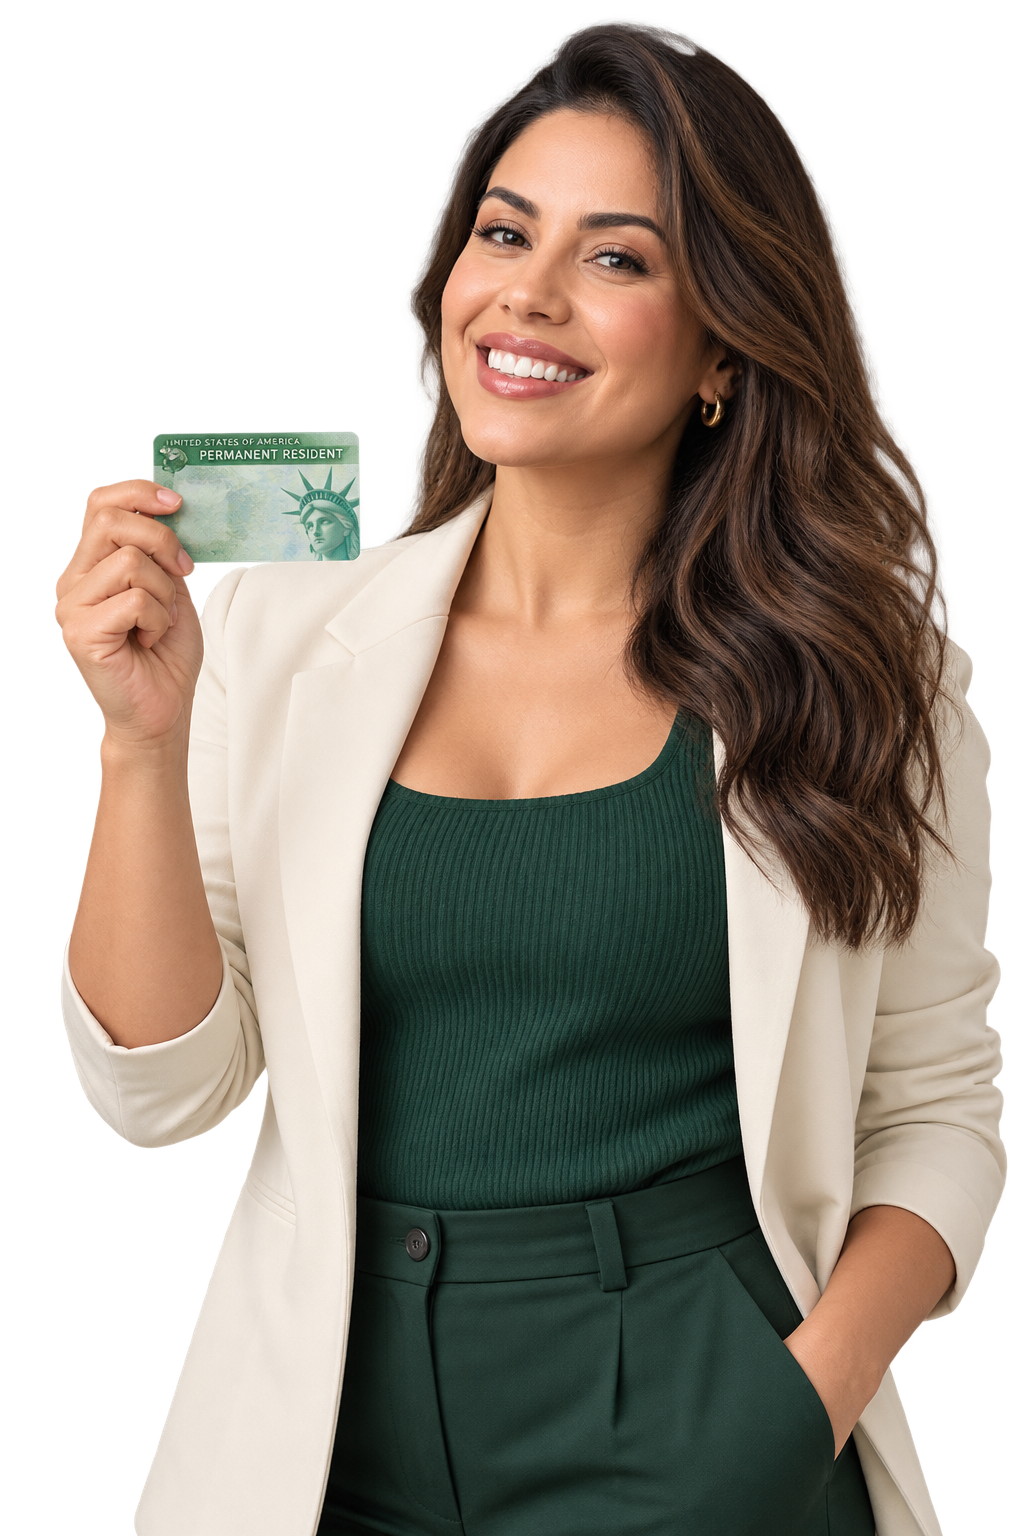
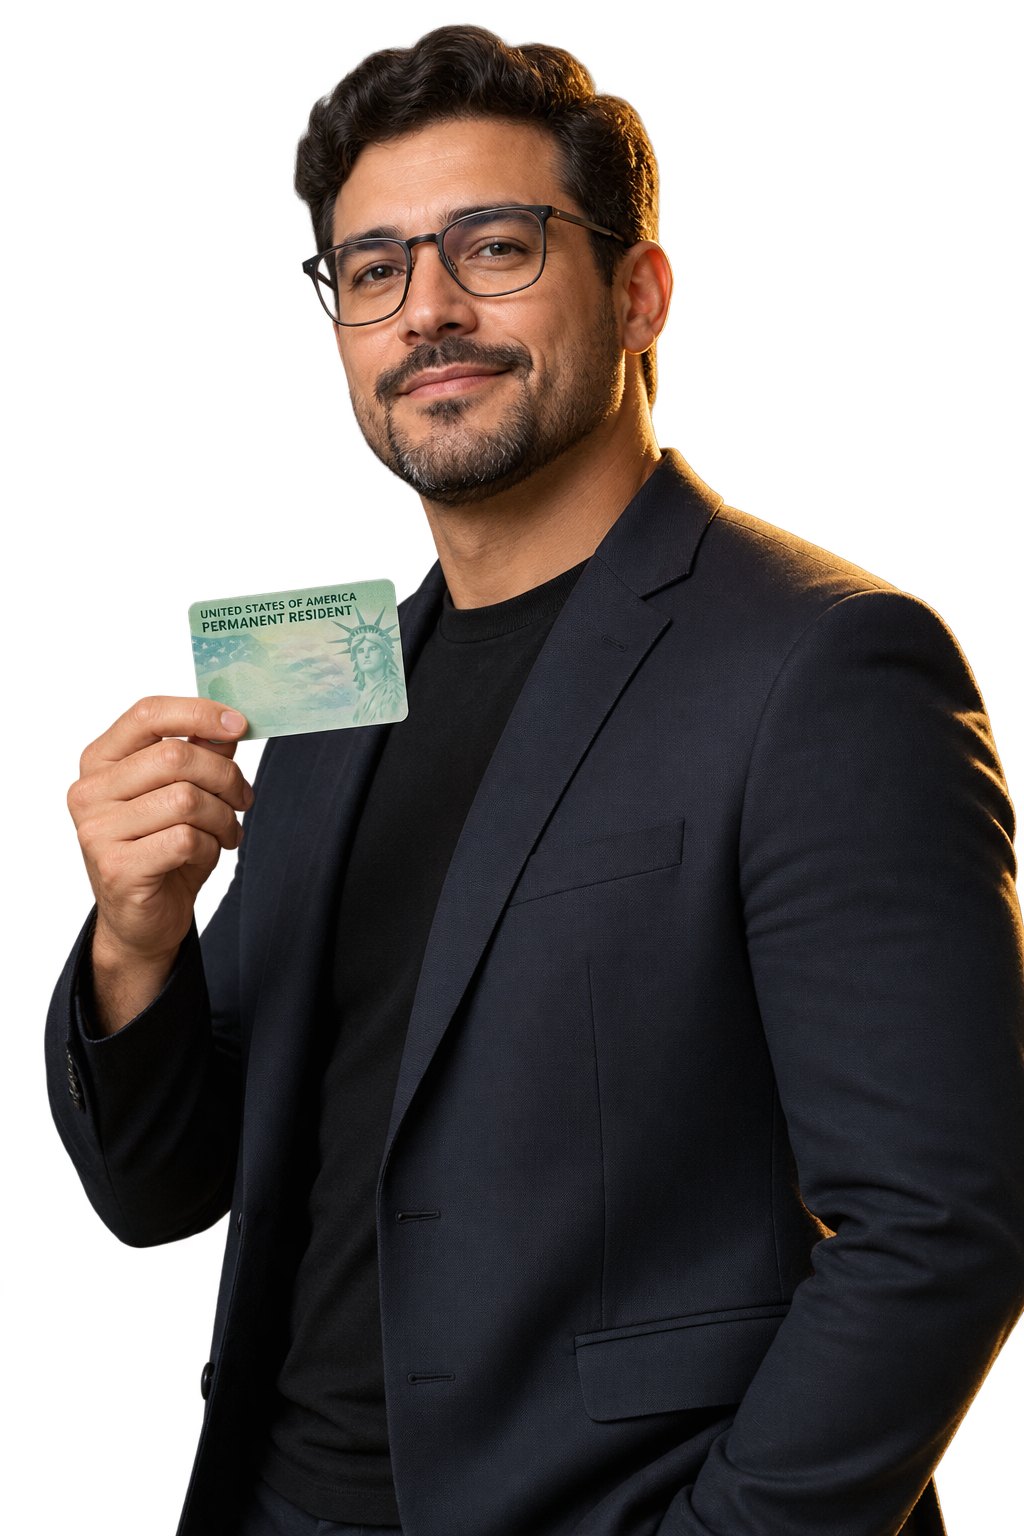
Refine site with premium technology aesthetic

diff --git a/index.html b/index.html
@@ -995,6 +995,281 @@
           width: 100%;
         }
       }
+      /* Palette rebuilt from the Mente Híbrida reference: ink, antique gold and ivory. */
+      :root {
+        --ink: #080604;
+        --teal: #d3ad69;
+        --mint: #17130e;
+        --coral: #e8c873;
+        --cream: #0d0b08;
+        --paper: #f3ead8;
+        --muted: #766f64;
+        --line: #d3ad6945;
+      }
+      body {
+        background: #080604;
+        color: #f3ead8;
+      }
+      header {
+        border-color: #d3ad6929;
+        background: #080604e8;
+      }
+      header.scrolled {
+        background: #080604f2;
+        box-shadow: 0 8px 30px #0008;
+      }
+      .logo {
+        color: #f3ead8;
+      }
+      .logo small {
+        color: #d3ad69;
+      }
+      .mark {
+        background: #080604;
+        color: #e8c873;
+        border-color: #d3ad69;
+      }
+      .links > a:not(.btn) {
+        color: #f3ead8;
+      }
+      .links > a:hover {
+        color: #e8c873;
+      }
+      .btn {
+        border-color: #e8c873;
+        background: #e8c873;
+        color: #080604;
+      }
+      .btn.ghost {
+        border-color: #d3ad69;
+        background: transparent;
+        color: #f3ead8;
+      }
+      .hero {
+        background: radial-gradient(
+          circle at 82% 45%,
+          #5c431f 0,
+          #21170d 17%,
+          #080604 48%
+        );
+        color: #f3ead8;
+      }
+      .hero h1,
+      .hero h1 em {
+        color: #f3ead8;
+      }
+      .hero h1 em {
+        color: #e8c873;
+      }
+      .hero .lead,
+      .hero .note {
+        color: #cfc4b2;
+      }
+      .hero .eyebrow {
+        color: #e8c873;
+      }
+      .hero-visual:before {
+        inset: 50px 6px 0 52px;
+        border: 1px solid #d3ad6980;
+        border-radius: 50% 50% 8px 8px;
+        background: radial-gradient(
+          circle at 52% 38%,
+          #d3ad696e,
+          #1a130b 56%,
+          #080604 77%
+        );
+        box-shadow: 0 0 80px #d3ad6938;
+      }
+      .hero-visual:after {
+        right: 8px;
+        bottom: 34px;
+        width: 62px;
+        height: 62px;
+        background: #e8c873;
+        box-shadow:
+          0 0 0 12px #080604,
+          0 0 0 13px #d3ad69;
+      }
+      .hero-person {
+        height: 570px;
+        filter: drop-shadow(0 22px 30px #000a);
+      }
+      .route-line,
+      .success-pill {
+        display: none;
+      }
+      .trust {
+        background: #0d0b08;
+        border-color: #d3ad6940;
+      }
+      .trust span {
+        color: #f3ead8;
+        border-color: #d3ad6933;
+      }
+      .trust i {
+        color: #e8c873;
+      }
+      #caminhos,
+      #prazos,
+      #duvidas {
+        background: #f3ead8;
+        color: #17130e;
+      }
+      .eyebrow {
+        color: #9b742f;
+      }
+      .intro > div {
+        background: #17130e;
+        color: #f3ead8;
+      }
+      .intro > p {
+        background: #e8c873;
+        color: #17130e;
+      }
+      .card,
+      .card:nth-child(2),
+      .card:nth-child(3) {
+        border: 1px solid #d3ad6952;
+        background: #17130e;
+        color: #f3ead8;
+      }
+      .card p {
+        color: #c7bdad;
+      }
+      .tag {
+        background: #e8c873;
+        color: #17130e;
+      }
+      .card .big {
+        color: #e8c87317;
+      }
+      .process {
+        background: #080604;
+        color: #f3ead8;
+      }
+      .process .eyebrow {
+        color: #e8c873;
+      }
+      .process .lead,
+      .process .step p {
+        color: #bdb4a6;
+      }
+      .process .step {
+        border-color: #d3ad6959;
+      }
+      .process .step:before {
+        background: #080604;
+        color: #e8c873;
+      }
+      .scope {
+        background: #d3ad6945;
+      }
+      .scope > div {
+        background: #11100d;
+      }
+      .scope strong {
+        color: #e8c873;
+      }
+      .scope p {
+        color: #bdb4a6;
+      }
+      .timeline:before {
+        background: #a98a53;
+      }
+      .time:before {
+        border-color: #f3ead8;
+        background: #9b742f;
+        box-shadow: 0 0 0 1px #9b742f;
+      }
+      .timeline p {
+        color: #665f56;
+      }
+      .source {
+        border-color: #b99555;
+        background: #e9ddc7;
+        color: #5e574e;
+      }
+      .source a {
+        color: #765616;
+      }
+      .limits {
+        background: #100e0b;
+        color: #f3ead8;
+      }
+      .limits .eyebrow {
+        color: #e8c873;
+      }
+      .scope-card,
+      .scope-card.no {
+        border: 1px solid #d3ad694f;
+        background: #191611;
+      }
+      .icon,
+      .no .icon {
+        background: #e8c873;
+        color: #080604;
+      }
+      .list li {
+        color: #c7bdad;
+        border-color: #d3ad6938;
+      }
+      #duvidas details {
+        border-color: #bda575;
+      }
+      #duvidas details p {
+        color: #685f54;
+      }
+      #duvidas summary:after {
+        color: #9b742f;
+      }
+      .cta {
+        background: #080604;
+      }
+      .cta-box {
+        background: linear-gradient(120deg, #d3ad69, #f0d48b);
+        color: #080604;
+      }
+      .cta-box .eyebrow,
+      .cta-box p {
+        color: #2b241b;
+      }
+      .cta-box .btn {
+        border-color: #080604;
+        background: #080604;
+        color: #f3ead8;
+      }
+      footer {
+        background: #080604;
+        color: #f3ead8;
+      }
+      .footer-grid p,
+      .footer-links a,
+      .legal {
+        color: #a99f90;
+      }
+      .legal {
+        border-color: #d3ad6935;
+      }
+      @media (max-width: 900px) {
+        .links {
+          background: #080604;
+        }
+        .hero-person {
+          height: 520px;
+        }
+      }
+      @media (max-width: 600px) {
+        .hero-person {
+          height: 450px;
+        }
+        .hero-visual:before {
+          inset: 40px 0 0 28px;
+        }
+        .hero-visual:after {
+          width: 45px;
+          height: 45px;
+        }
+      }
     </style>
   </head>
   <body>
@@ -1045,12 +1320,11 @@
             class="hero-visual reveal"
             aria-label="Profissional celebrando a residência permanente"
           >
-            <span class="success-pill"><i></i>Seu projeto, bem apresentado</span
-            ><img
+            <img
               class="hero-person"
               src="assets/hero-consultant.png"
-              alt="Profissional sorridente segurando uma representação de Green Card"
-            /><span class="route-line" aria-hidden="true"></span>
+              alt="Profissional de tecnologia segurando uma representação de Green Card"
+            />
           </aside>
         </div>
         <div class="trust">
@@ -1347,13 +1621,13 @@
           <div class="cta-box reveal">
             <p class="eyebrow">Próximo passo</p>
             <h2>
-              Sua trajetória merece uma estratégia individual, não um
-              checklist genérico.
+              Sua trajetória merece uma estratégia individual, não um checklist
+              genérico.
             </h2>
             <p>
               Conte sua formação, área, principais conquistas e objetivo nos
-              Estados Unidos. Na primeira conversa, apresentamos nosso método,
-              o escopo do trabalho e os próximos passos.
+              Estados Unidos. Na primeira conversa, apresentamos nosso método, o
+              escopo do trabalho e os próximos passos.
             </p>
             <div class="actions">
               <a
